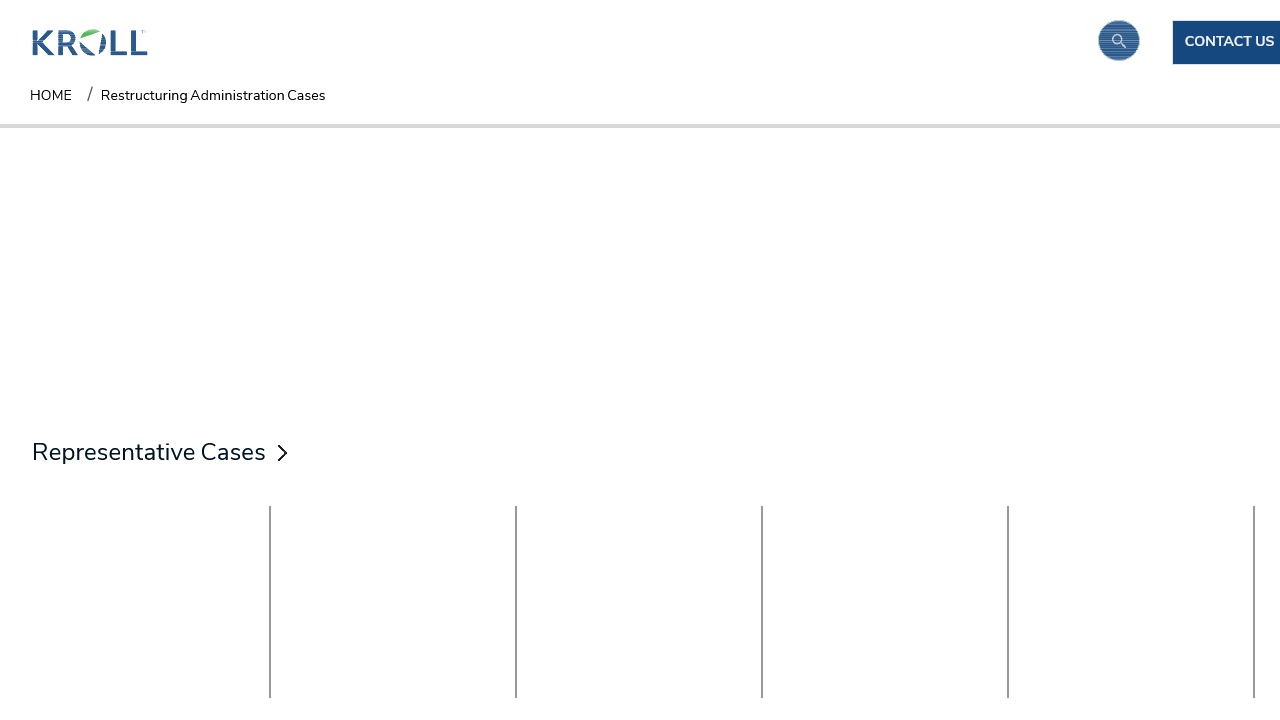
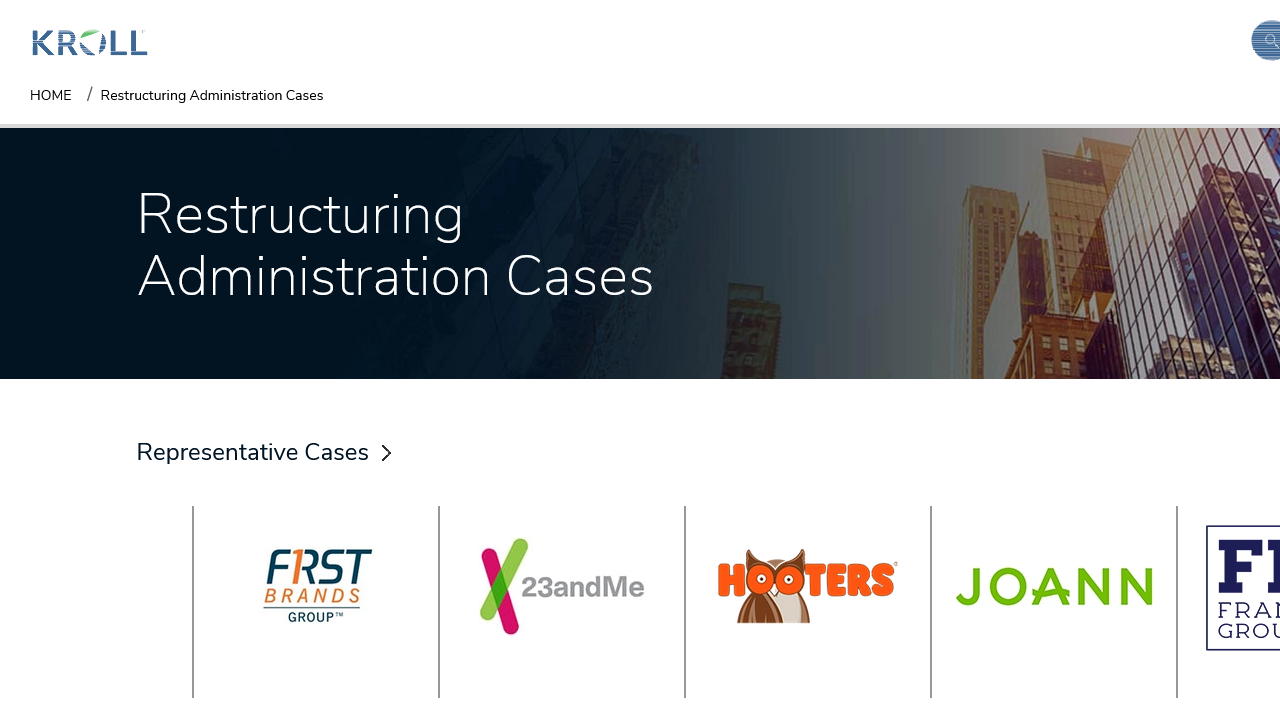
fix(worktree-b): wait for networkidle on Kroll and fix case slug

diff --git a/scout.py b/scout.py
@@ -55,7 +55,7 @@ def build_kroll_url(company_name: str) -> str:
         clean = clean.replace(suffix, "")
     clean = clean.replace(" ", "").replace("&", "and")
     clean = clean.replace("'", "").replace("-", "")
-    return f"https://restructuring.ra.kroll.com/{clean}/Home"
+    return f"https://restructuring.ra.kroll.com/{clean}/"
 
 async def scout_kroll(page: Page, company_name: str, filing_year: int) -> List[Dict[str, Any]]:
     """Navigate Kroll, search for case, extract document metadata."""
@@ -64,24 +64,32 @@ async def scout_kroll(page: Page, company_name: str, filing_year: int) -> List[D
     
     try:
         url = build_kroll_url(company_name)
-        await page.goto(url, wait_until="domcontentloaded", timeout=30000)
+        await page.goto(url, wait_until="networkidle", timeout=45000)
         
-        current_url = page.url
+        # Screenshot immediately — before ANY other logic
+        await page.screenshot(path=f"debug_kroll_{deal_id}_loaded.png")
         title = await page.title()
+        print(f"Kroll page title: {title}")
+        print(f"Kroll URL: {page.url}")
         
         if "404" in title or "not found" in title.lower():
             # Try portal search as fallback
             await page.goto("https://restructuring.ra.kroll.com/", 
-                            wait_until="domcontentloaded", timeout=30000)
-                            
-        await page.screenshot(path=f"debug_kroll_{deal_id}_loaded.png")
+                            wait_until="networkidle", timeout=45000)
+            
+        try:
+            await page.wait_for_selector(
+                "table, .docket-table, .document-list, h1, .case-title",
+                timeout=20000
+            )
+        except:
+            pass  # continue anyway, take screenshot to see what loaded
             
         doc_selectors = [
+            "li a:text('Documents')",
+            "a.nav-link:text('Documents')", 
+            "[role='tab']:text('Documents')",
             "a[href*='Documents']",
-            "a[href*='Docket']", 
-            "a:text('Documents')",
-            "a:text('Docket')",
-            "nav a[href*='docket' i]",
         ]
         for selector in doc_selectors:
             try:
@@ -90,7 +98,8 @@ async def scout_kroll(page: Page, company_name: str, filing_year: int) -> List[D
             except:
                 continue
                 
-        await page.wait_for_load_state("networkidle", timeout=20000)
+        await page.wait_for_load_state("networkidle", timeout=30000)
+        await page.screenshot(path=f"debug_kroll_{deal_id}_rendered.png")
         
         rows = await page.query_selector_all("tr, .docket-row, .document-row")
         
@@ -116,8 +125,12 @@ async def scout_kroll(page: Page, company_name: str, filing_year: int) -> List[D
                     })
                     
     except Exception as e:
-        await page.screenshot(path=f"debug_kroll_fail_{deal_id}.png")
+        print(f"Kroll Scout Error TYPE: {type(e).__name__}")
         print(f"Kroll Scout Error: {e}")
+        try:
+            await page.screenshot(path=f"debug_kroll_fail_{deal_id}.png")
+        except:
+            print("Screenshot also failed - page object is dead")
         
     return results
 
